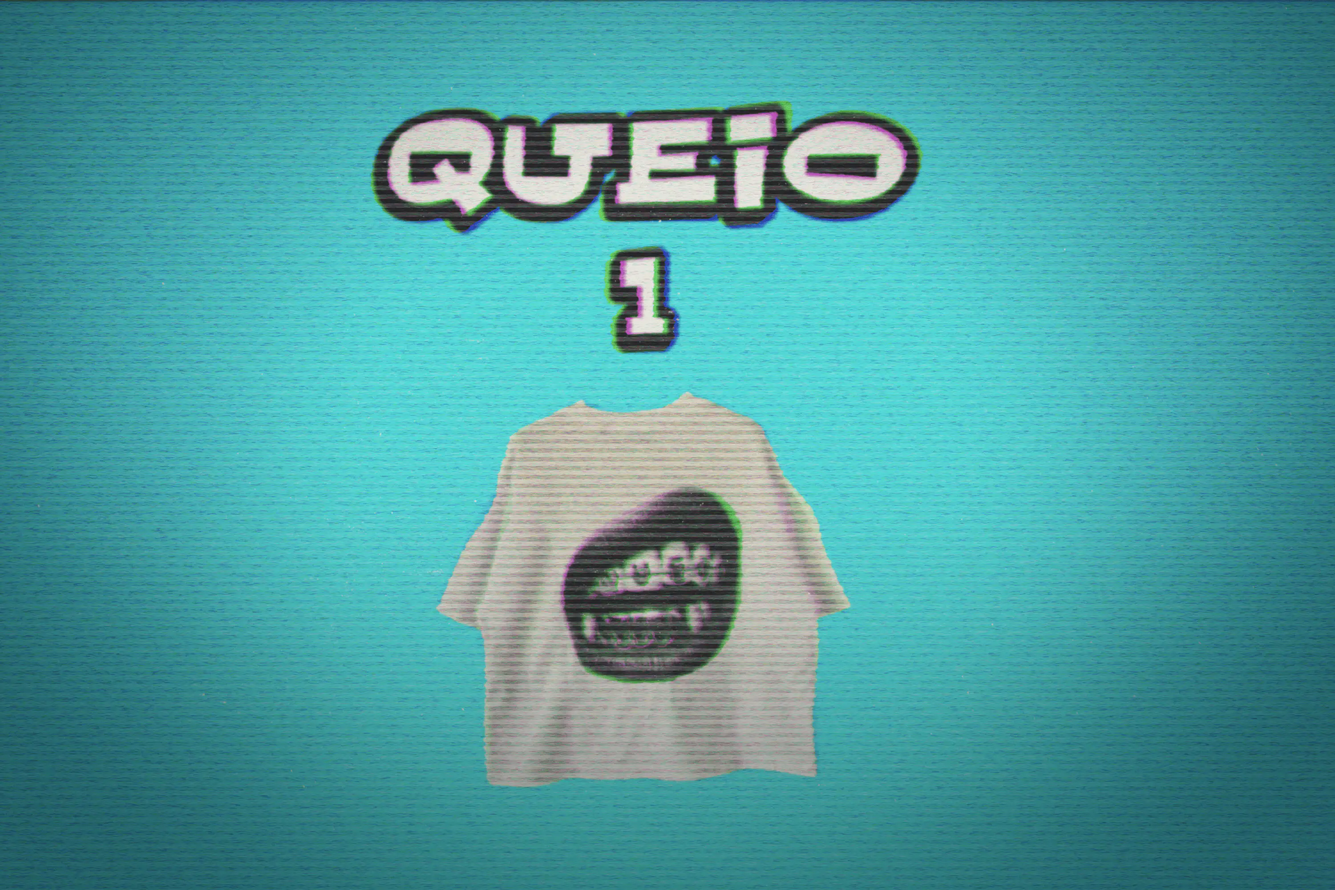
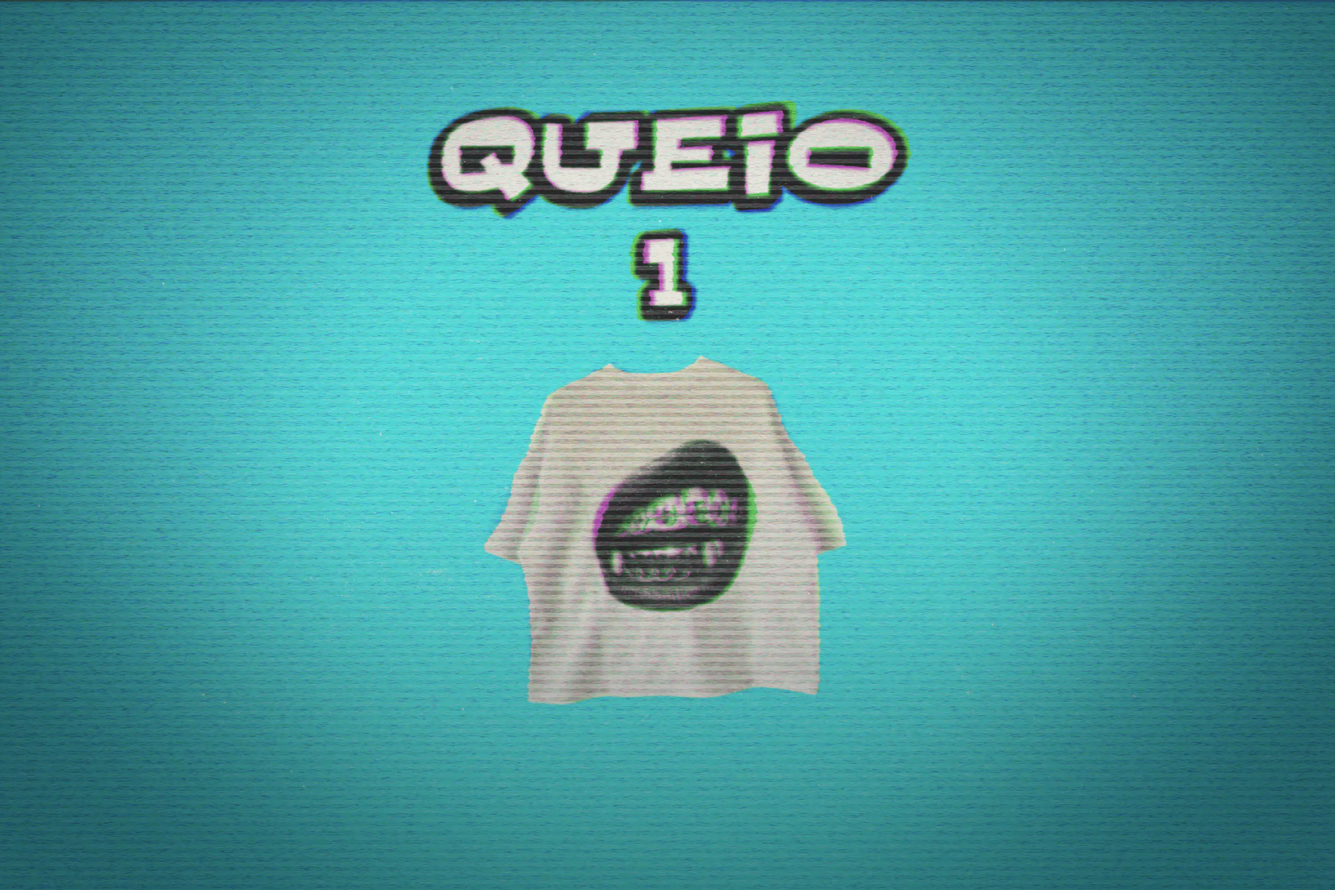
fixed bg before sizes mobile

Changed region(s): [[0.279, 0.093, 0.713, 0.899]]

diff --git a/src/App.css b/src/App.css
@@ -53,7 +53,7 @@ img {
 
 /* // header nav bar logo */
 .logo img {
-  height: clamp(60px, 5vw, 70px);
+  height: clamp(45px, 5vw, 70px);
 }
 
 /* //  section hero */
@@ -77,14 +77,13 @@ img {
 .bg-custom::before {
   content: "";
   position: fixed;
-  top: -100px;
   left: 0;
   width: 100%;
-  height: 95vh;
+  height: 100vh;
   z-index: -1;
   background-image: url("/imgLanding/Verticale_Senza.png");
-  background-position: 50% 80%;
-  background-size: 110% auto;
+  background-position: center;
+  background-size: 100% auto;
   background-repeat: no-repeat;
   animation: introBg 3s forwards;
 }
@@ -258,15 +257,7 @@ li {
 .underline::marker {
   display: none;
 }
-/* .underline::after {
-  content: "";
-  position: absolute;
-  bottom: 0;
-  left: 0;
-  width: 100%;
-  height: 5%;
-  background-color: #000;
-} */
+
 .fw-custom-info {
   font-weight: 550;
 }
@@ -441,6 +432,7 @@ li {
   .bg-custom::before {
     content: "";
     top: 0%;
+    height: 90vh;
     background-image: url("/imgLanding/Orizzontale_Senza.png");
     background-position: center;
   }
@@ -467,9 +459,10 @@ li {
     top: 2%;
     background-image: url("/imgLanding/Orizzontale_Senza.png");
     background-position: center;
+
     background-size: contain;
 
-    background-position: 50% 80%;
+    background-position: center;
   }
 
   section.flex-column {

diff --git a/src/components/GameBoy.jsx b/src/components/GameBoy.jsx
@@ -111,7 +111,7 @@ const GameBoy = () => {
         id="btnUp"
         className="custom-positionRight position-absolute"
       >
-        <img src="imgLanding/su.png" alt="" className="w-100 h-100" />
+        <img src="imgLanding/su.png" alt="" className="w-100 h-100 d-none" />
       </a>
       <a
         onClick={(e) => {
@@ -160,7 +160,7 @@ const GameBoy = () => {
         id="btnDown"
         className="position-absolute custom-positionLeft"
       >
-        <img src="imgLanding/giu.png" alt="" className="w-100 h-100" />
+        <img src="imgLanding/giu.png" alt="" className="w-100 h-100 d-none" />
       </a>
       <a
         onClick={(e) => {

diff --git a/index.html b/index.html
@@ -2,7 +2,7 @@
 <html lang="en">
   <head>
     <meta charset="UTF-8" />
-    <link rel="icon" type="image/svg+xml" href="/vite.svg" />
+    <link rel="icon" type="image/png" href="/imgLanding/Cuore.png" />
     <meta name="viewport" content="width=device-width, initial-scale=1.0" />
     <title>portfolio-dani</title>
   </head>
